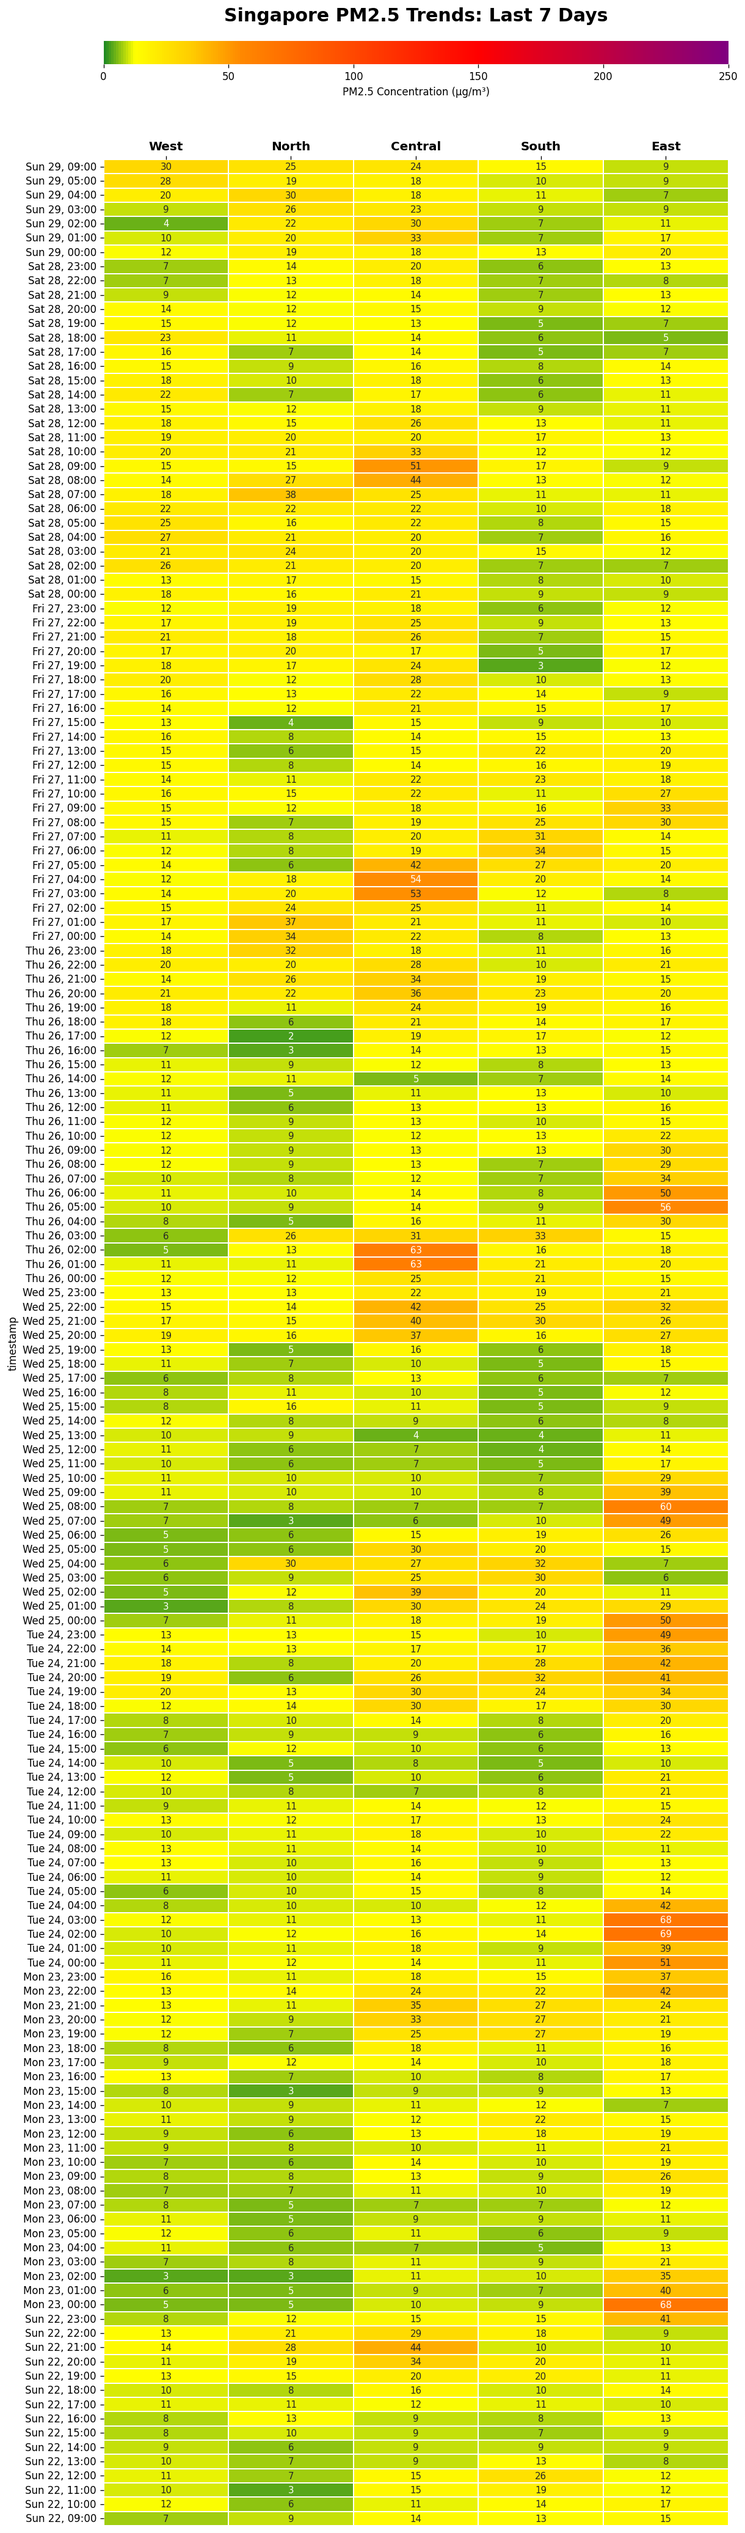
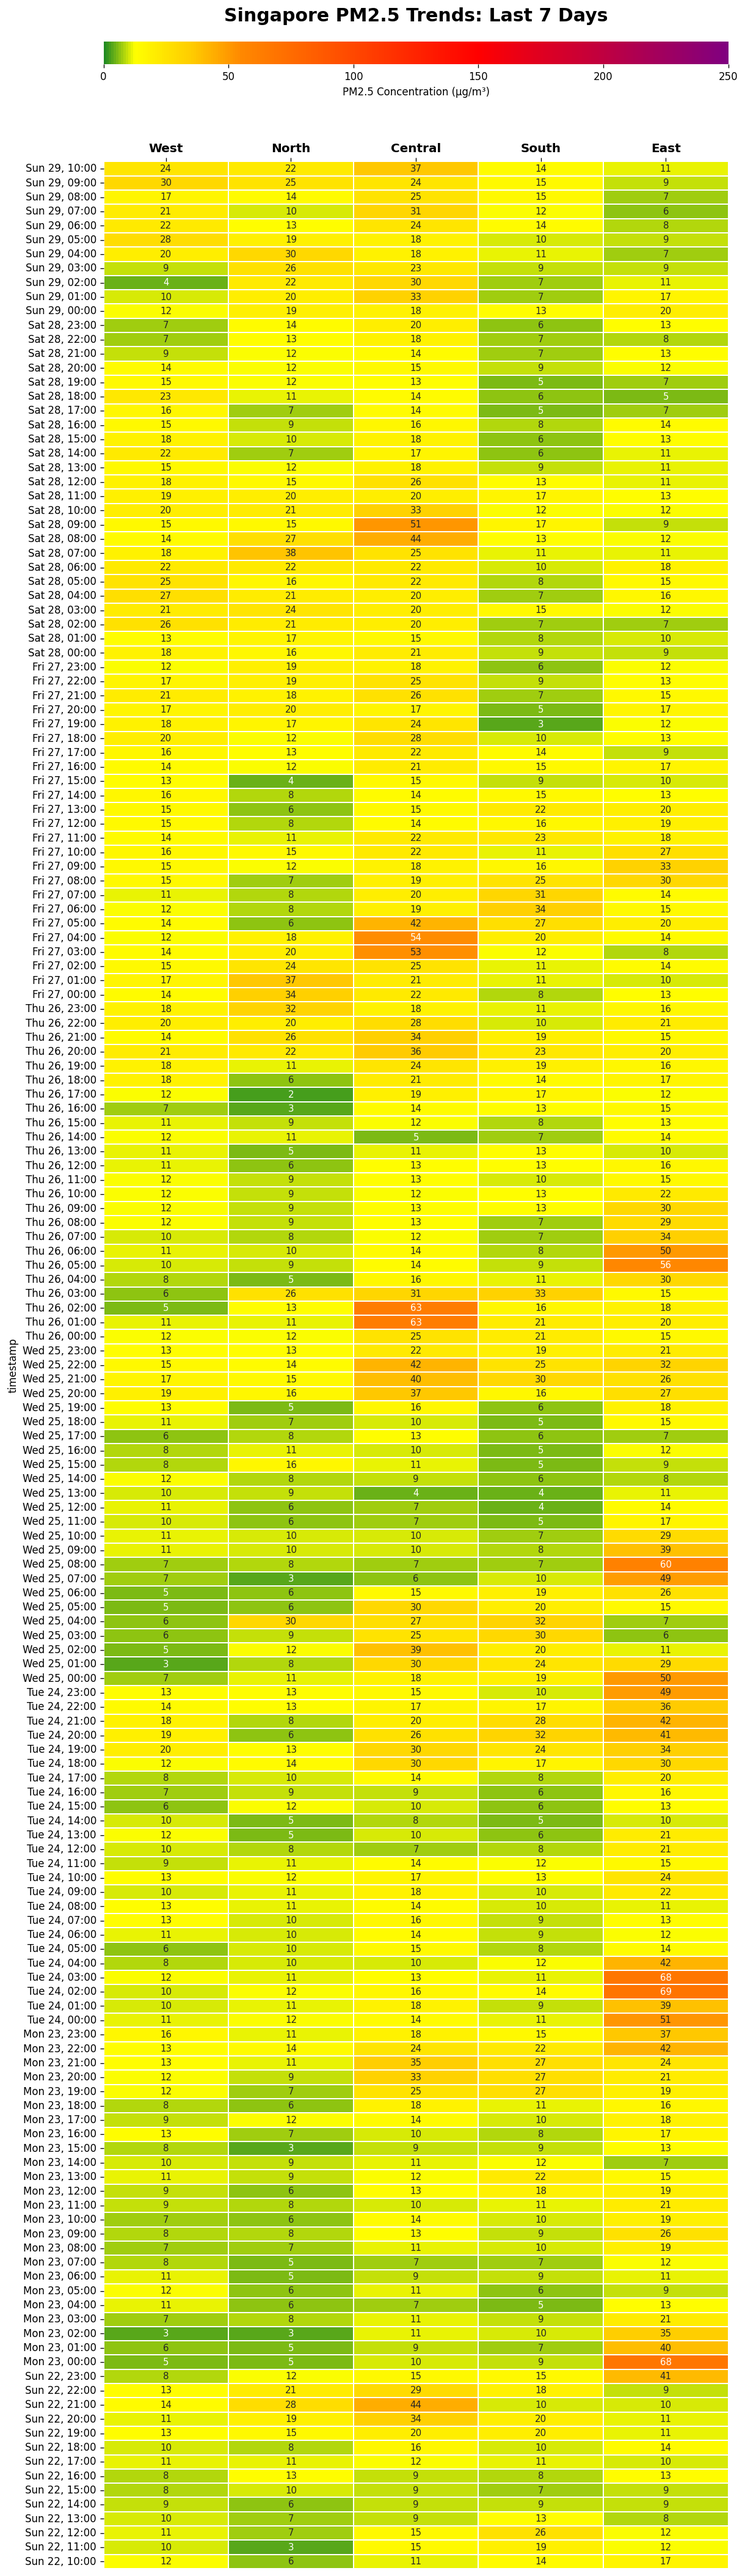
Add GitHub Actions workflow for sync and refresh

diff --git a/index.html b/index.html
@@ -25,10 +25,10 @@
                     <div class="item"><div class="dot" style="background:#FF8800"></div>Unhealthy</div>
                     <div class="item"><div class="dot" style="background:#800080"></div>Hazardous</div>
                 </div>
-                <img src="haze_latest.png?t=1774750239" alt="PM2.5 Heatmap">
+                <img src="haze_latest.png?t=1774751111" alt="PM2.5 Heatmap">
                 <div class="meta">
                     <strong>Source:</strong> data.gov.sg API<br>
-                    <strong>Data Freshness:</strong> 2026-03-29 09:00 (SGT)<br>
+                    <strong>Data Freshness:</strong> 2026-03-29 10:00 (SGT)<br>
                     Generated via GitHub Actions
                 </div>
             </div>
